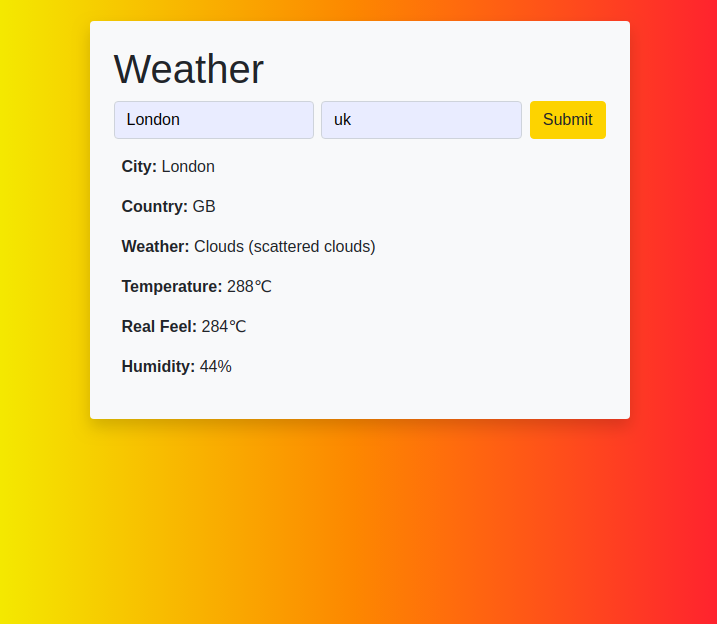
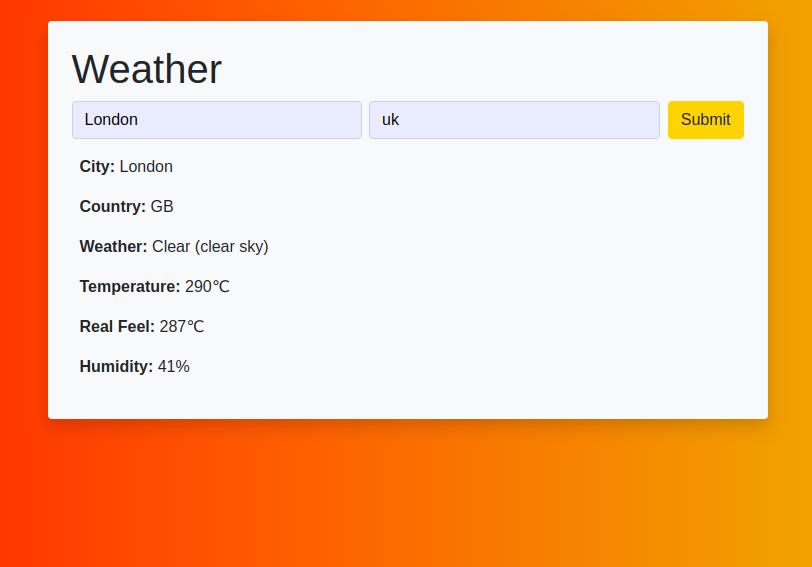
update gradient

diff --git a/src/index.css b/src/index.css
@@ -5,9 +5,9 @@ body {
     sans-serif;
   -webkit-font-smoothing: antialiased;
   -moz-osx-font-smoothing: grayscale;
-  background: #FF4E50;  /* fallback for old browsers */
-  background: -webkit-linear-gradient(to right, #F9D423, #FF4E50);  /* Chrome 10-25, Safari 5.1-6 */
-  background: linear-gradient(to right, #F9D423, #FF4E50); /* W3C, IE 10+/ Edge, Firefox 16+, Chrome 26+, Opera 12+, Safari 7+ */
+  background: #FF512F;  /* fallback for old browsers */
+  background: -webkit-linear-gradient(to left, #F09819, #FF512F);  /* Chrome 10-25, Safari 5.1-6 */
+  background: linear-gradient(to left, #F09819, #FF512F); /* W3C, IE 10+/ Edge, Firefox 16+, Chrome 26+, Opera 12+, Safari 7+ */
 }
 
 code {
